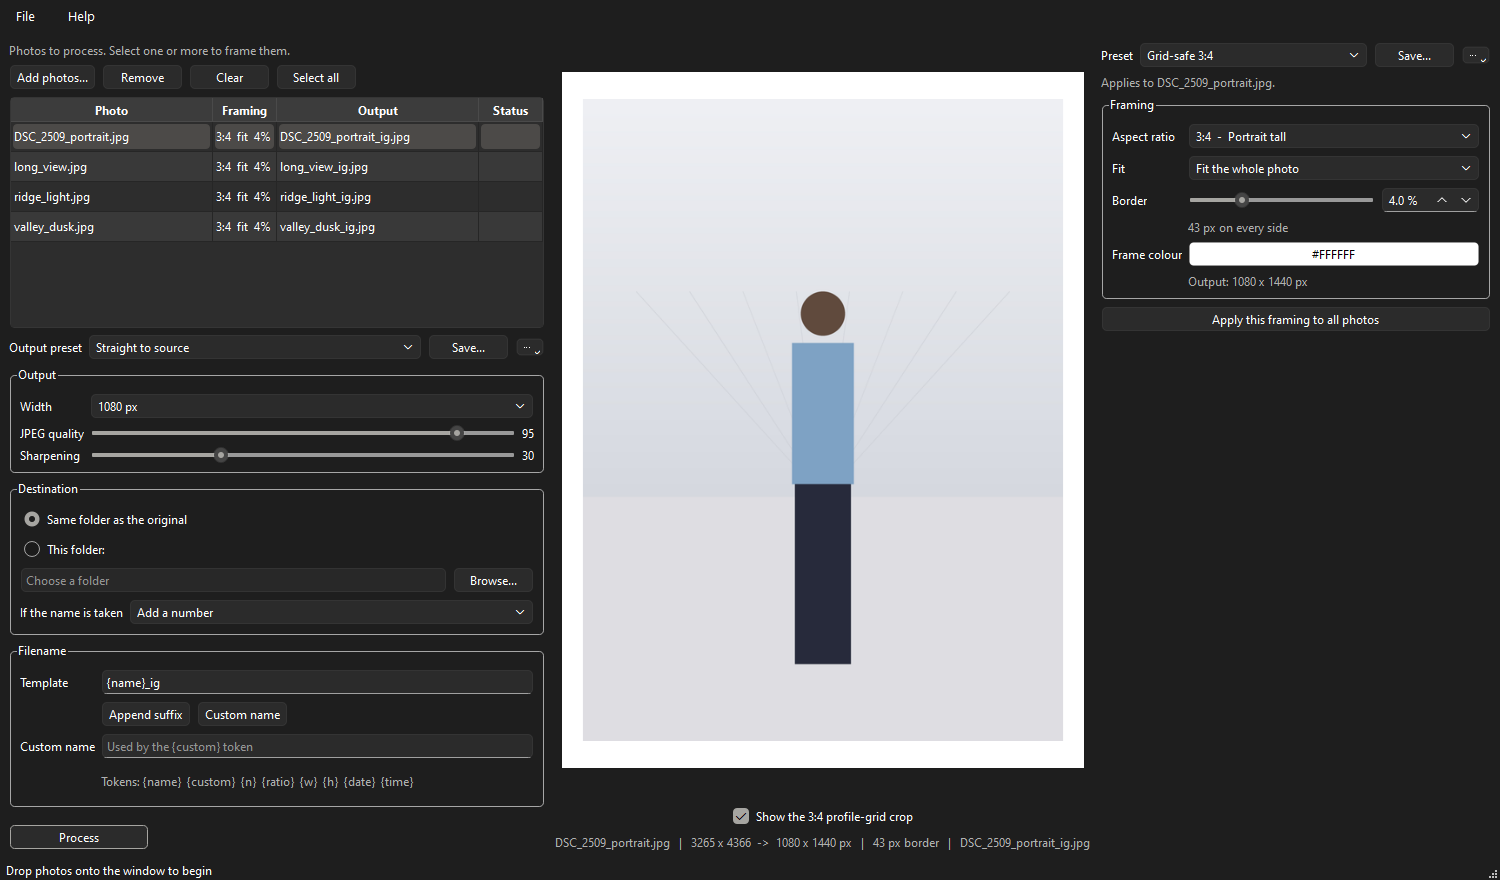
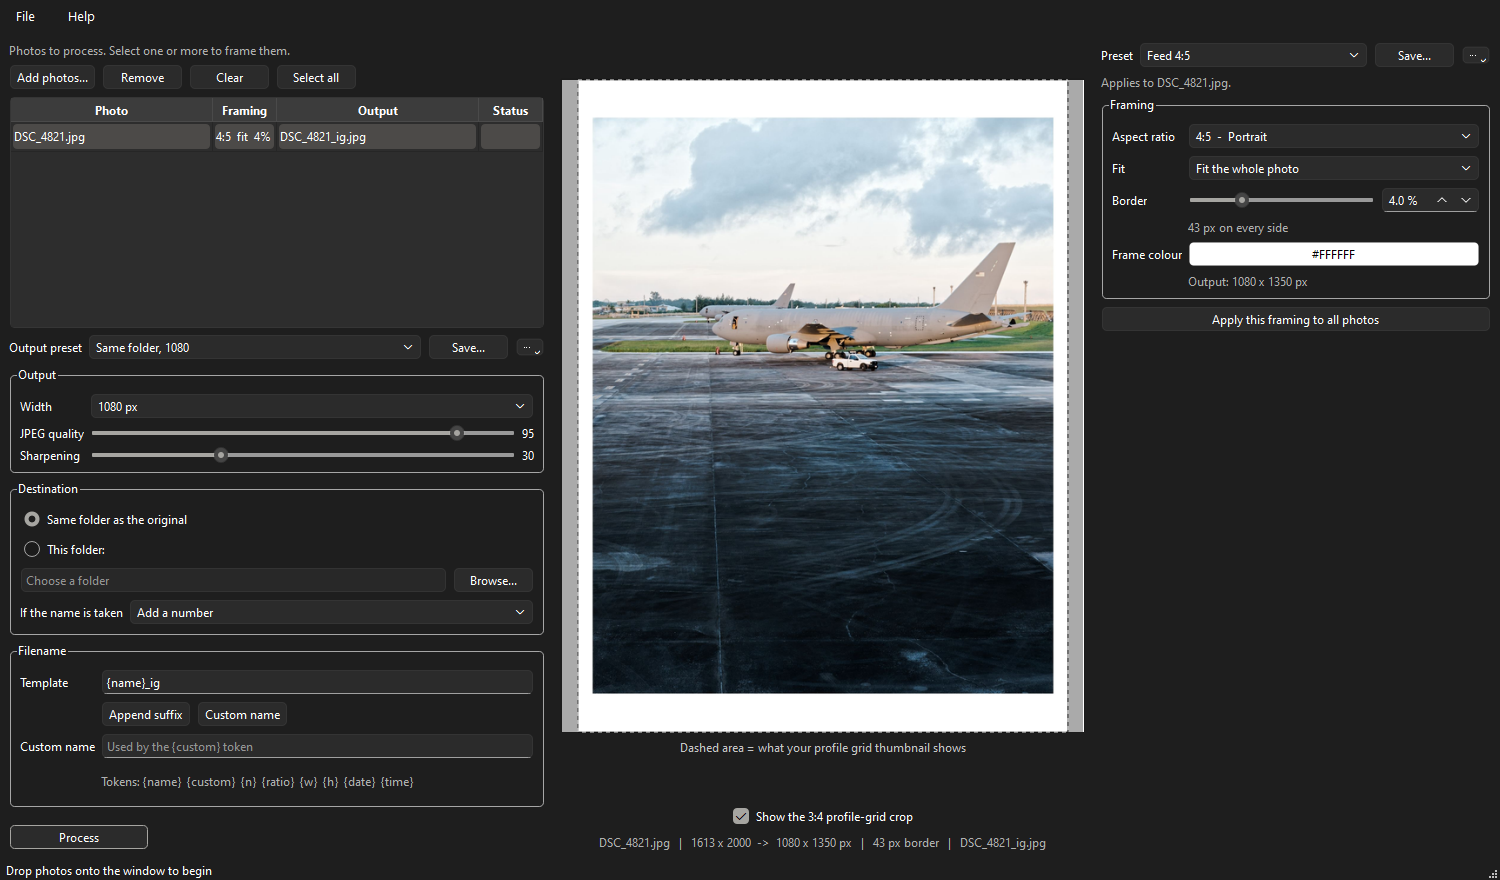
Shorten the README and screenshot a real photo

diff --git a/README.md b/README.md
@@ -2,39 +2,28 @@
 
 [![tests](https://github.com/JesseHaycraft/IGprepper/actions/workflows/tests.yml/badge.svg)](https://github.com/JesseHaycraft/IGprepper/actions/workflows/tests.yml)
 
-Prepare photos for Instagram: resize, frame, done.
+Resizes photos for Instagram and puts a white frame around them.
 
-Takes high-quality photos, resizes them to Instagram's native dimensions, adds a
-consistent white frame, and writes upload-ready JPEGs. Batch, drag-and-drop,
-with a live preview.
+![IGprepper](docs/screenshot.png)
 
-![The main window](docs/screenshot.png)
+## Why
 
-## Why not just export from Lightroom
+Instagram wants sRGB at 1080px wide. Upload something bigger and their servers
+shrink it for you and re-compress it, with no sharpening. Upload AdobeRGB or
+Display P3 and the colours come out flat, because Instagram ignores the
+embedded profile.
 
-Three things this does that a plain export does not:
+IGprepper does the conversion and the resize itself, sharpens to make up for
+the downscale, and writes 4:4:4 JPEG so there's less left for Instagram's own
+compression to chew on. It also puts an identical border on every photo, which
+is the tedious part to do by hand.
 
-- **Converts to sRGB.** Instagram assumes sRGB and does not reliably honour
-  embedded ICC profiles, so an AdobeRGB or Display P3 export uploaded as-is
-  comes out visibly flat. This is the single most common cause of "my colours
-  died after uploading".
-- **Downscales to 1080 itself, then sharpens.** Uploading a larger file means
-  Instagram's servers downscale and recompress it for you, with no sharpening.
-  Doing it locally with Lanczos plus a measured unsharp pass keeps the detail.
-- **Encodes 4:4:4.** Instagram recompresses everything on upload. Handing it
-  4:2:0 compounds colour-edge artifacts through a second generation of loss.
+## Install
 
-And it puts the *same* border on every photo, whatever the ratio, which is the
-part that is annoying to do by hand.
+**Windows.** Download `IGprepper.exe` from the
+[latest release](../../releases/latest) and run it. Nothing else required.
 
-## Windows
-
-Download `IGprepper.exe` from the
-[latest release](../../releases/latest) and double-click it. No Python needed.
-
-## Ubuntu / Linux
-
-Four commands from a fresh machine:
+**Ubuntu / Linux.**
 
 ```bash
 sudo apt install python3-venv libxcb-cursor0
@@ -43,105 +32,58 @@ python3 -m venv .venv && .venv/bin/pip install -r requirements.txt
 .venv/bin/python -m igprep
 ```
 
-`libxcb-cursor0` is the one system package Qt needs beyond Python; without it
-the window fails to open and the app says so on startup.
+`libxcb-cursor0` is the only system package Qt needs. Without it the window
+won't open, and the app says so on startup.
 
-To update later: `git pull`.
-
-## macOS
-
-As for Linux, without the `apt` line.
-
-## Opening photos
-
-Drop them on the window, use **Add photos...**, or pass them on the command
-line — `python -m igprep photo.jpg`, which is also what "Open with" and a
-Linux `.desktop` launcher use.
+**macOS.** As above, minus the apt line.
 
 ## Using it
 
-Drop photos or folders onto the window, select one or more in the list, set
-their framing on the right, press **Process**.
+Drop photos on the window, or pass them on the command line with
+`python -m igprep photo.jpg`. Select one or more in the list, set the framing
+on the right, press Process.
 
-The window is divided by scope, so no setting appears twice:
+### Ratios
 
-- **Left** -- the photo list, and below it everything that applies to the whole
-  run: output width, quality, sharpening, destination, filenames, and the
-  **Process** button.
-- **Middle** -- the preview of the selected photo.
-- **Right** -- framing for the selected photo(s): ratio, fit, border, colour.
-  *Apply this framing to all photos* copies it across the list.
-
-The list is selection only; nothing in it is editable. Photos you add later
-inherit whatever the framing panel is showing.
-
-**Aspect ratios.** Instagram replaced its square profile grid with a ~3:4 one
-in 2025, so 3:4 (1080 x 1440) is the default: it is the only ratio that renders
-uncropped in both the feed and the profile grid.
-
-| Ratio | At 1080 wide | Notes |
+| Ratio | Pixels | |
 |---|---|---|
-| 1:1 | 1080 x 1080 | Loses 135px per side in the grid |
-| 4:5 | 1080 x 1350 | Tallest the feed shows; loses 33px per side in the grid |
-| 3:4 | 1080 x 1440 | Default. Uncropped everywhere |
-| 1.91:1 | 1080 x 566 | Widest allowed; heavily cropped in the grid |
-| 9:16 | 1080 x 1920 | Stories and reels, not feed |
+| 1:1 | 1080 × 1080 | loses 135px a side in the grid |
+| 4:5 | 1080 × 1350 | tallest the feed displays |
+| 3:4 | 1080 × 1440 | default; uncropped everywhere |
+| 1.91:1 | 1080 × 566 | widest allowed |
+| 9:16 | 1080 × 1920 | stories and reels |
 
-Turn on the grid overlay to see exactly what each ratio loses in the profile
-grid. The dashed area is what the thumbnail keeps; everything dimmed is cut.
+Instagram replaced its square profile grid with a 3:4 one in 2025, so 3:4 is
+the only ratio that survives the feed and the grid intact. Turn on the grid
+overlay to see what the others lose.
 
-**Border.** Measured as a percentage of canvas *width*. Since every Instagram
-canvas is the same width, a given percentage produces an identical pixel border
-at every ratio, so portraits and landscapes look identically framed side by
-side. The default 4% is 43px at 1080.
+### Border
 
-It is a per-photo setting, so consistency across your grid comes from leaving
-it alone or using *Apply this framing to all photos* -- not from the tool
-refusing to let you change it.
+A percentage of the canvas width. Every Instagram canvas is 1080 wide, so the
+same percentage produces the same pixel border at every ratio and your
+portraits and landscapes match. 4% is 43px.
 
-**Crop vs fit.** Per photo, set in the framing panel.
+### Fit or crop
 
-- *Fit* (default) scales the whole photo inside the frame and lets white fill
-  the rest, so the mat goes uneven. Nothing is lost.
-- *Crop* centre-crops to the target ratio and fills the frame. Uniform border,
-  but you lose the edges.
+Fit keeps all of the photo and lets the white mat go uneven. Crop trims to the
+target ratio for an even border. Set per photo.
 
-**Presets.** Two separate lists, one per scope. *Preset* at the top of the
-right panel saves framing — ratio, fit, border, colour — and applies it to the
-selected photos. *Output preset* above the batch settings saves width, quality,
-sharpening, destination and the filename template, and applies to the whole
-run. Picking a preset you have already selected re-applies it, which is how you
-discard edits; the list shows `(modified)` whenever the panel has drifted from
-the saved values.
+### Presets
 
-The custom name is never stored in a preset — it belongs to one batch.
+Two lists. Framing presets (ratio, fit, border, colour) apply to whatever is
+selected. Output presets (width, quality, sharpening, destination, filename)
+apply to the whole run. Choosing a preset you already have selected re-applies
+it, which is how you discard edits; the dropdown reads `(modified)` when
+you've drifted from it.
 
-**Width.** 1080 by default. 1440 is available, but organic uploads wider than
-1080 get downscaled server-side, so it usually costs quality rather than adding
-it.
+### Filenames
 
-**Filenames.** One template field, with presets for the two common cases.
+A template field taking `{name}` `{custom}` `{n}` `{ratio}` `{w}` `{h}`
+`{date}` `{time}`. Pad the counter as `{n:03}`. Two buttons fill in the common
+cases. Originals are never overwritten, whatever the collision setting says.
 
-| Token | Meaning |
-|---|---|
-| `{name}` | Original filename, without extension |
-| `{custom}` | The custom name you type |
-| `{n}` | Sequence number; pad it as `{n:03}` |
-| `{ratio}` | Aspect ratio, e.g. `3x4` |
-| `{w}` `{h}` | Output dimensions |
-| `{date}` `{time}` | From EXIF capture time, falling back to file time |
-
-The original is never overwritten, whatever the collision policy is set to.
-
-## Building the Windows executable
-
-```bash
-pip install -r requirements-dev.txt
-python build_exe.py
-```
-
-Produces `dist/IGprepper.exe` as a single file with no Python
-installation required.
+Settings and presets live in `%APPDATA%\igprep` on Windows and
+`~/.config/igprep` on Linux.
 
 ## Development
 
@@ -150,23 +92,12 @@ pip install -r requirements-dev.txt
 pytest
 ```
 
-The layout keeps the image pipeline free of any UI imports:
+201 tests. The GUI ones run headless, so they need no display. CI runs the lot
+on Windows and Ubuntu for every push.
 
-```
-igprep/
-  core/       pure pipeline, fully unit-tested
-    geometry.py   canvas, border and crop maths
-    color.py      ICC handling
-    render.py     resize, sharpen, composite, encode
-    naming.py     filename templating
-    pipeline.py   ties a source file to a written output
-    settings.py   persisted preferences
-  gui/        PySide6 application
-tests/
-```
+`igprep/core/` holds the image pipeline and imports nothing from the UI, so it
+can be tested on its own. `igprep/gui/` is the PySide6 app. The order of
+operations in the pipeline matters, and is written down in [SPEC.md](SPEC.md).
 
-Processing order matters and is deliberate; it is documented in
-[SPEC.md](SPEC.md).
-
-The GUI tests run headless against Qt's offscreen platform, so `pytest` needs
-no display.
+`python build_exe.py` builds the Windows executable. Pushing a `v*` tag makes
+GitHub build it and attach it to a release.
